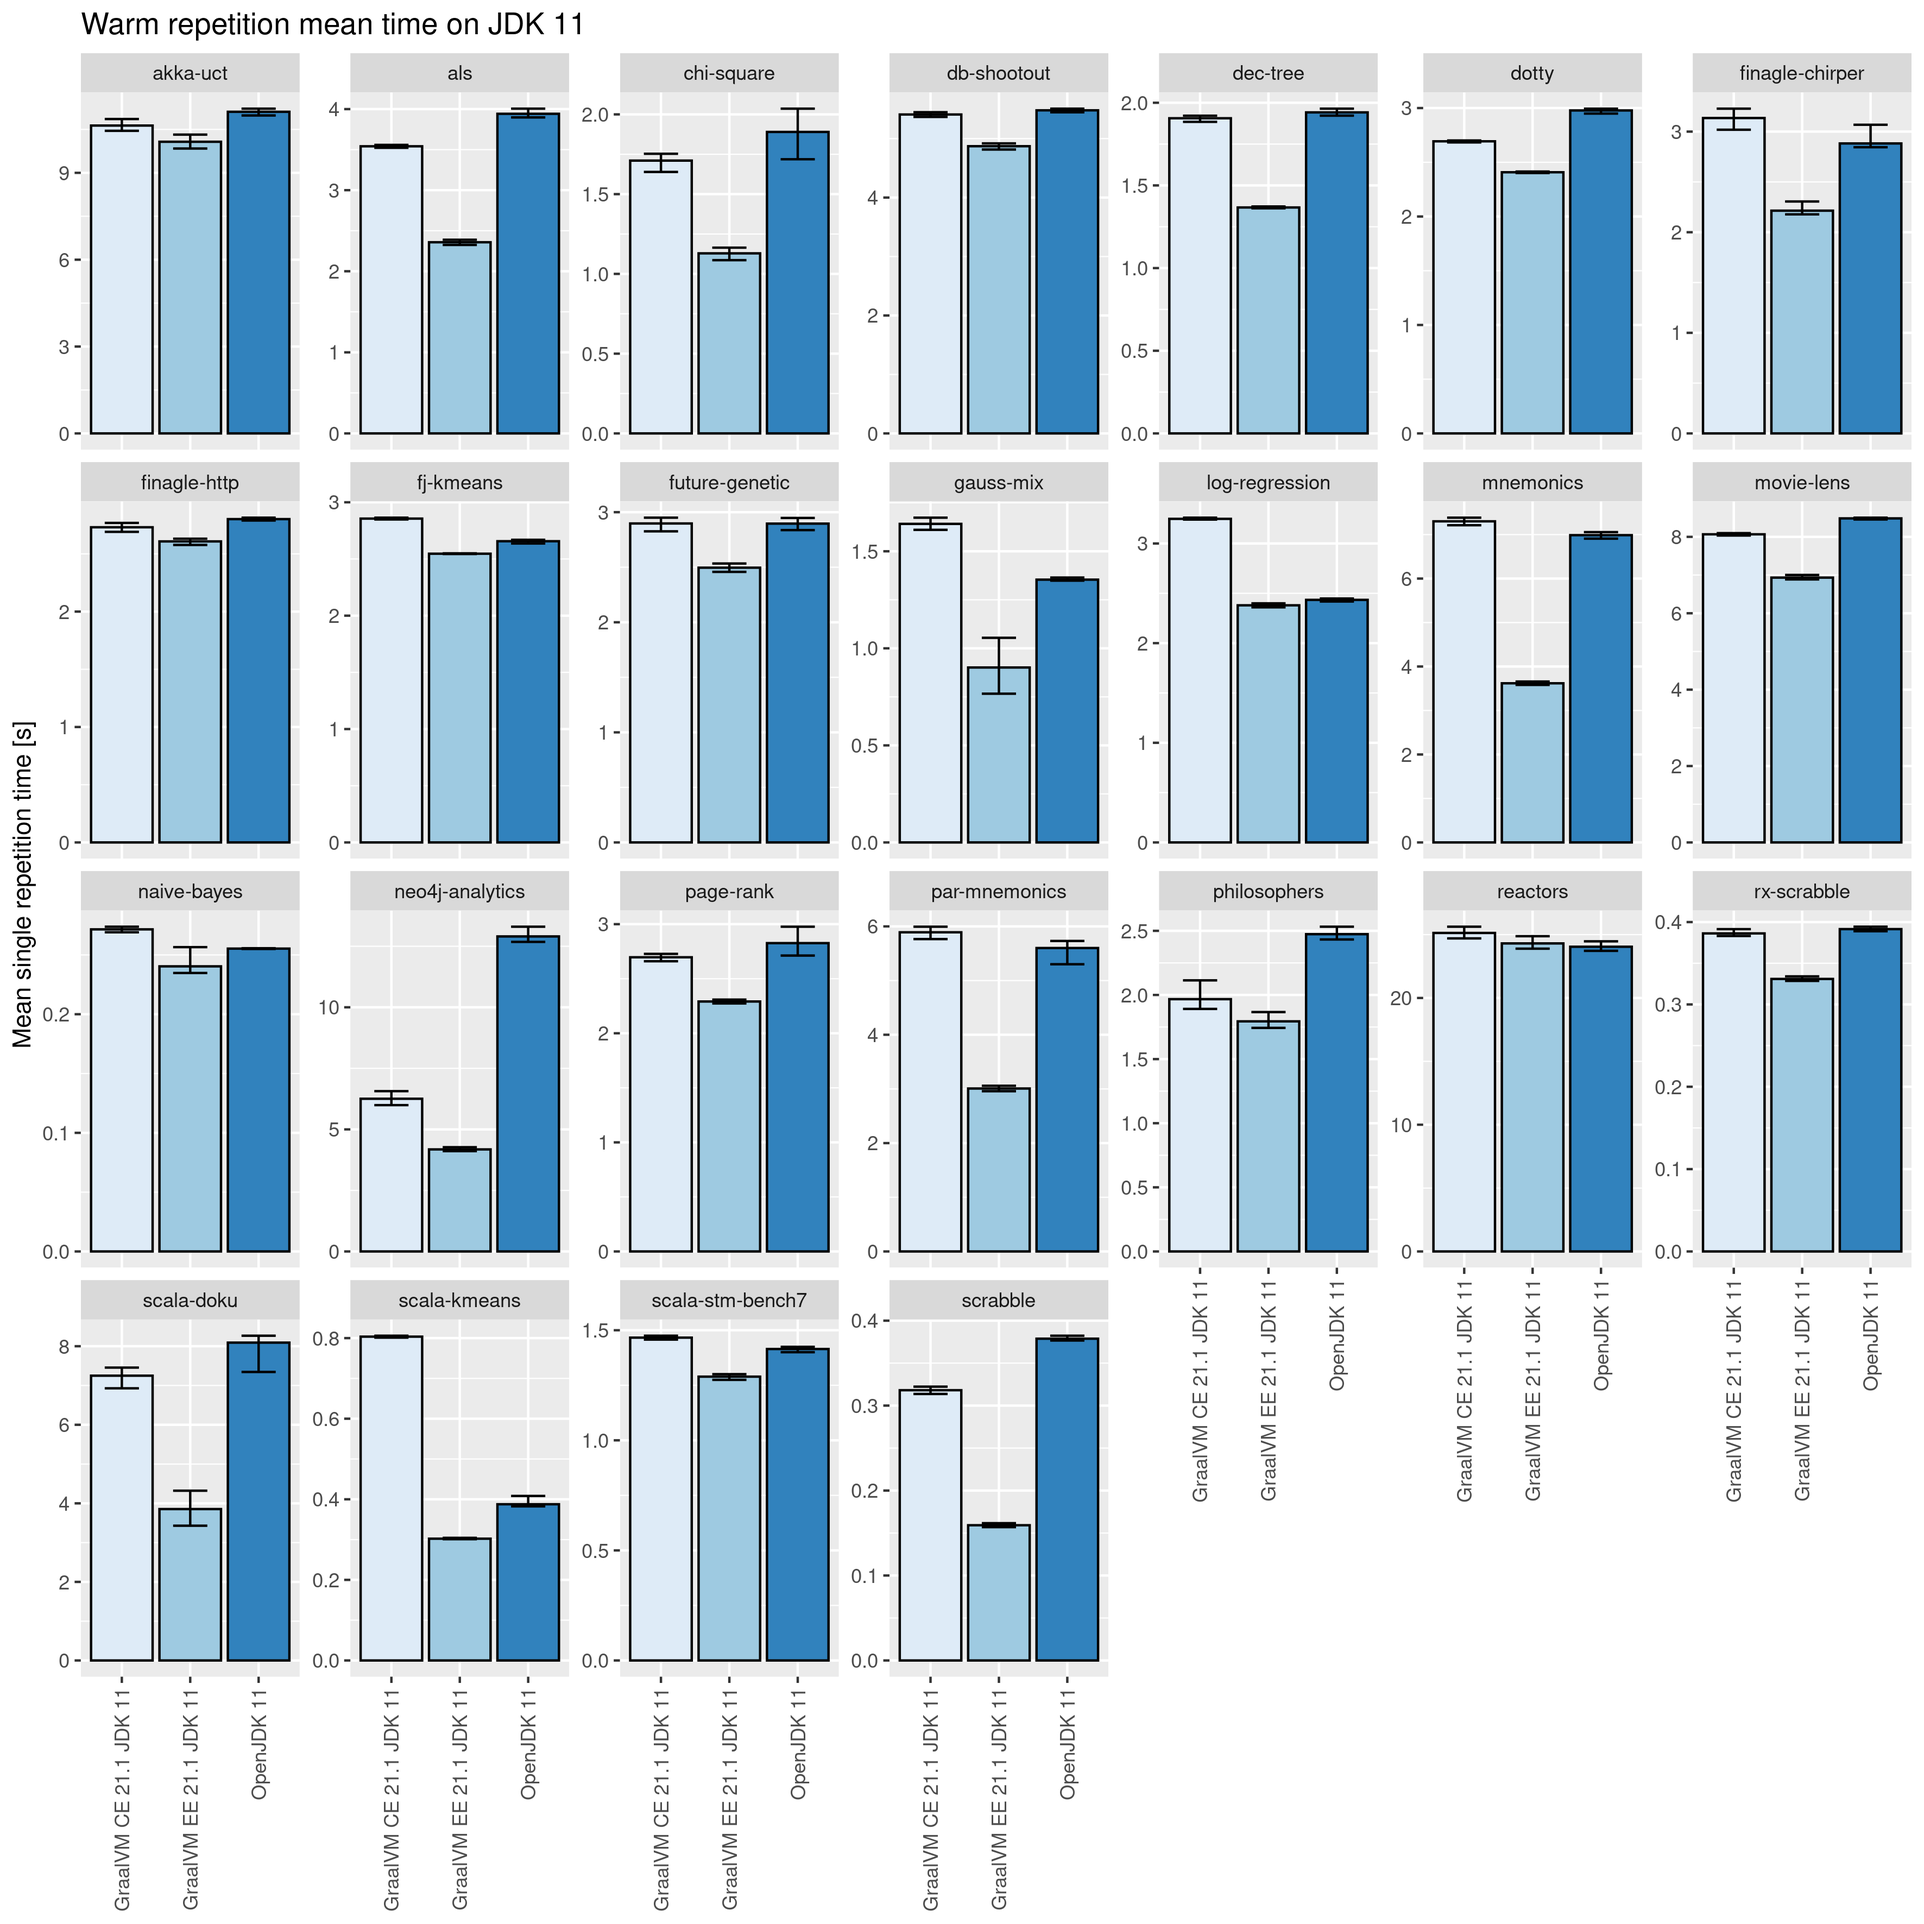
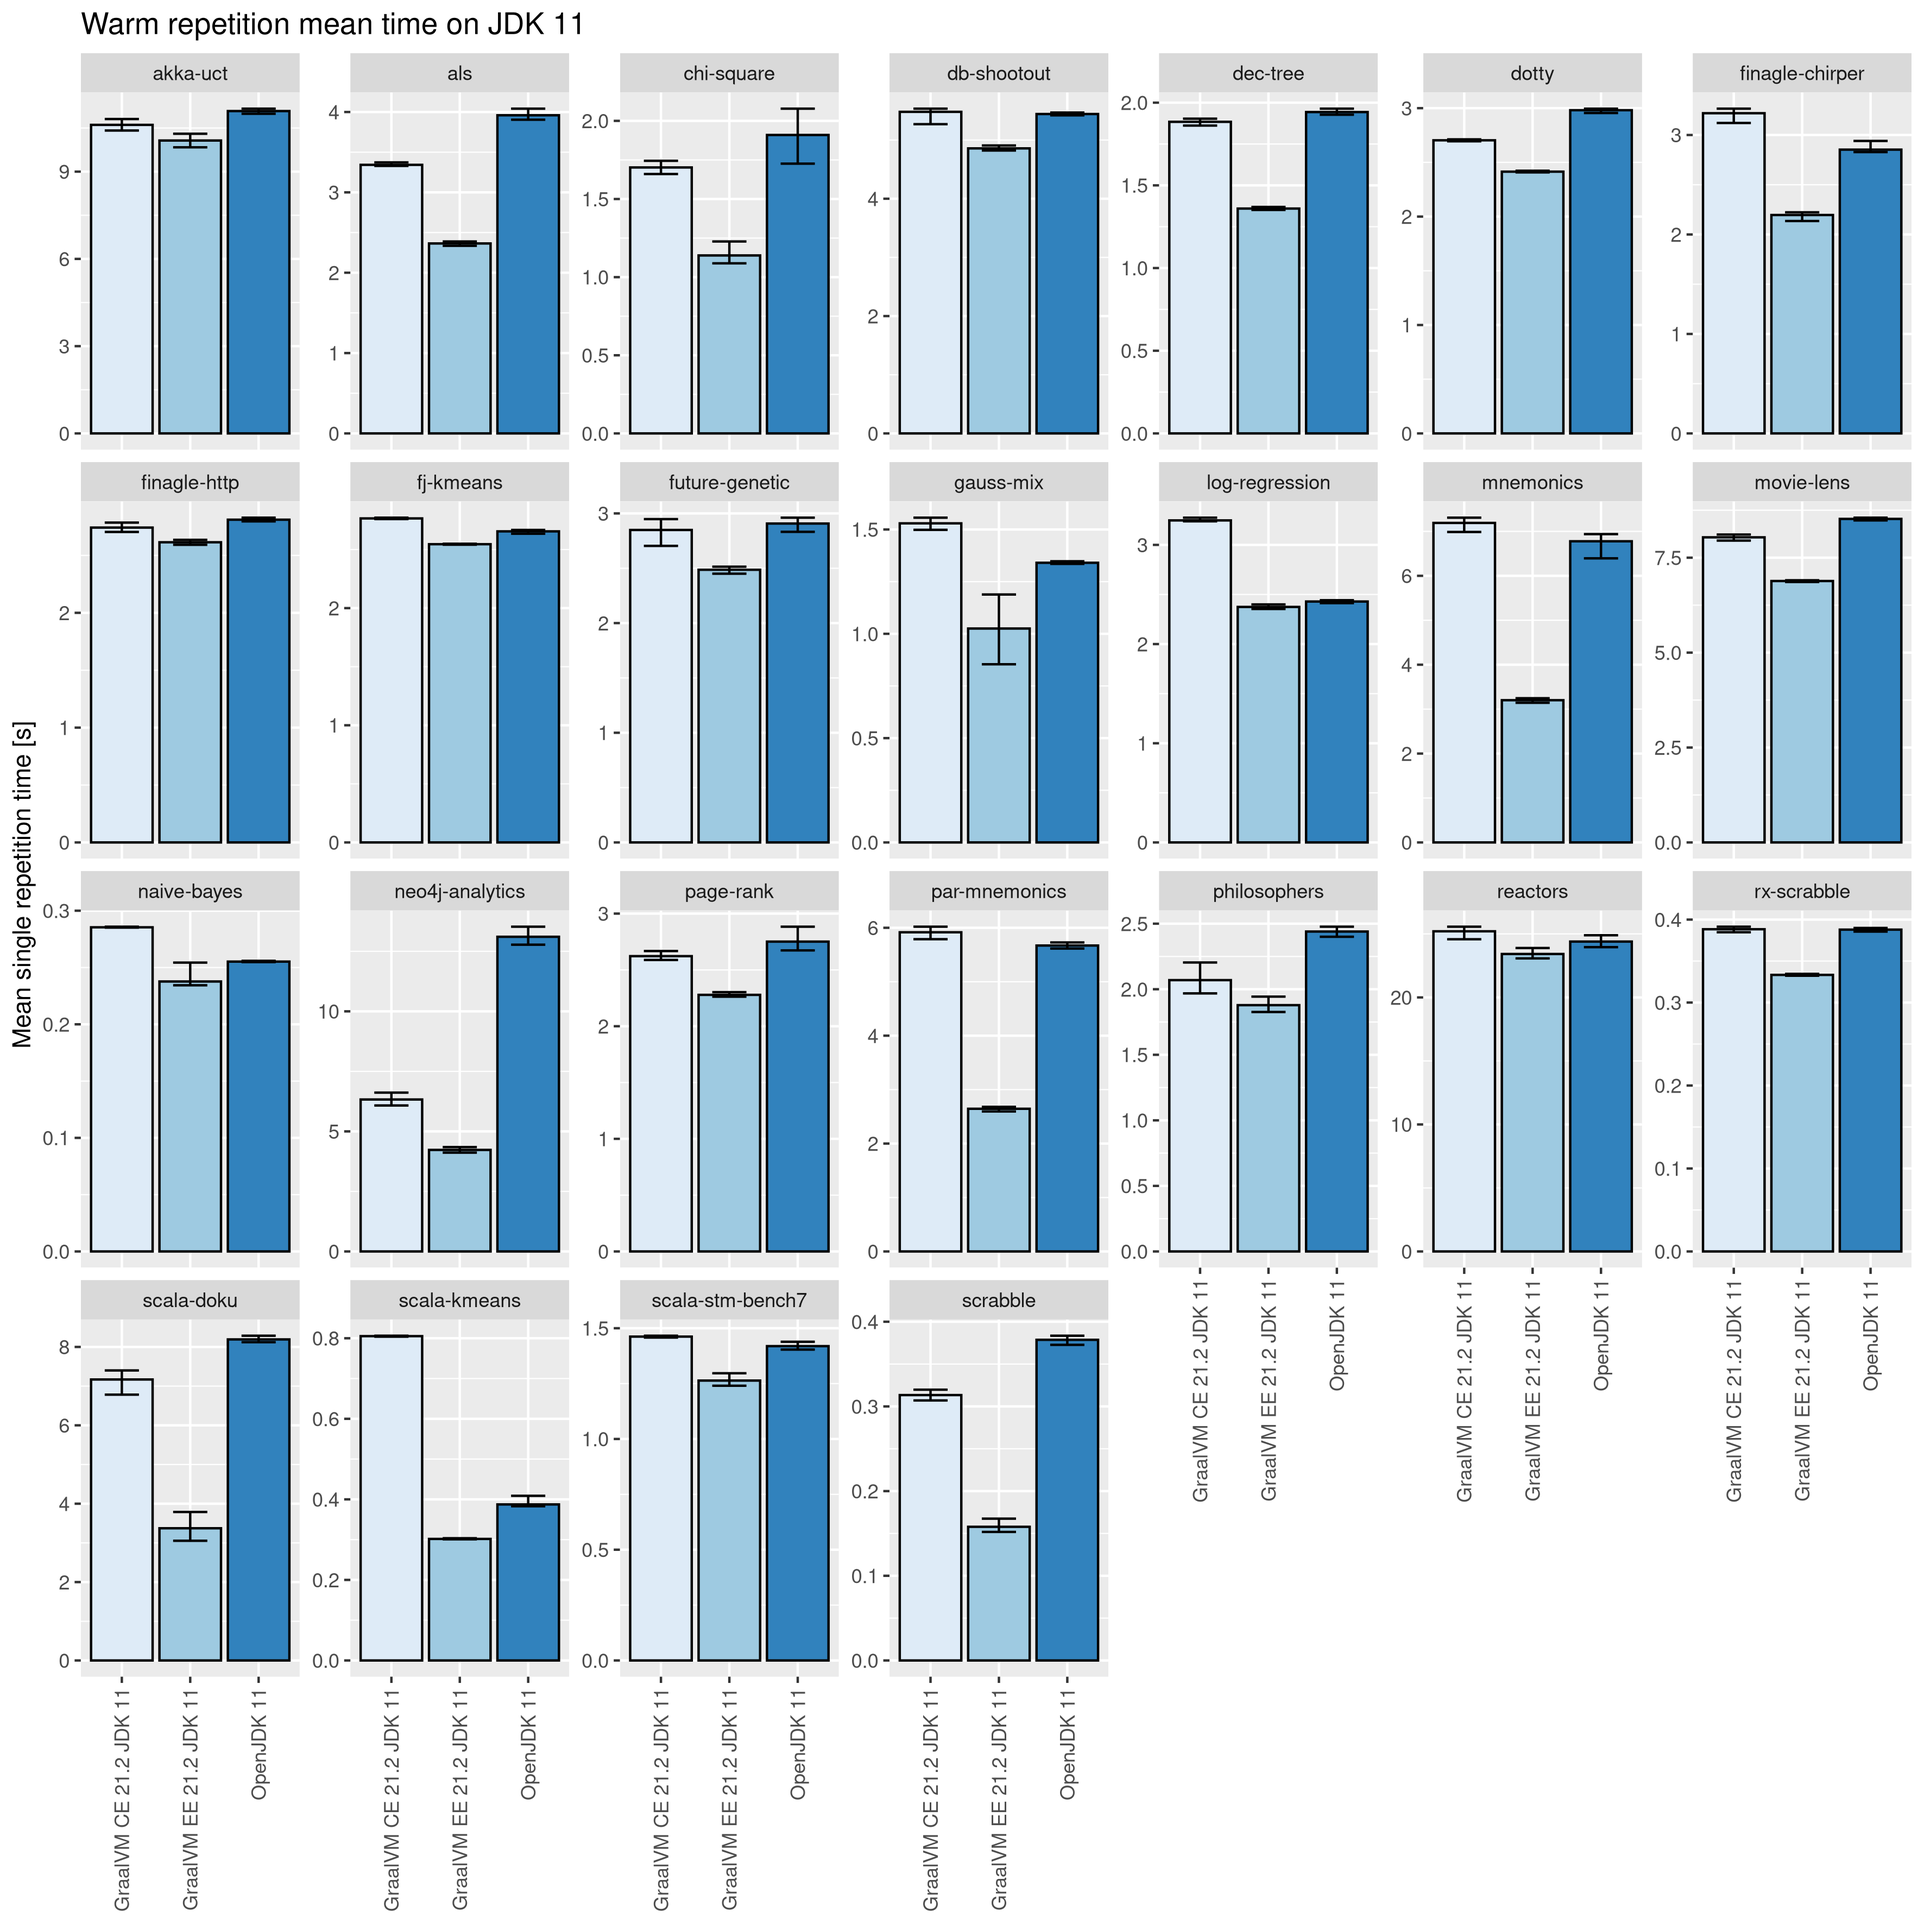
Updated results for GraalVM 21.2.0-dev

diff --git a/README.md b/README.md
@@ -31,32 +31,32 @@ The JVM implementations referenced in the results are:
 
 - **OpenJDK** is the GraalVM Community Edition JVM implementation run with `-XX:-EnableJVMCI -XX:-UseJVMCICompiler` to force the use of the default OpenJDK JIT compiler.
 
-- **GraalVM CE** is GraalVM Community Edition 21.1.0-dev.
+- **GraalVM CE** is GraalVM Community Edition 21.2.0-dev.
 ```
 > java -version
-openjdk version "1.8.0_292"
-OpenJDK Runtime Environment (build 1.8.0_292-b09)
-OpenJDK 64-Bit Server VM GraalVM CE 21.1.0-dev (build 25.292-b09-jvmci-21.1-b05, mixed mode)
+openjdk version "1.8.0_302"
+OpenJDK Runtime Environment (build 1.8.0_302-b07)
+OpenJDK 64-Bit Server VM GraalVM CE 21.2.0-dev (build 25.302-b07-jvmci-21.2-b06, mixed mode)
 ```
 ```
 > java -version
-openjdk version "11.0.11" 2021-04-20
-OpenJDK Runtime Environment GraalVM CE 21.1.0-dev (build 11.0.11+8-jvmci-21.1-b05)
-OpenJDK 64-Bit Server VM GraalVM CE 21.1.0-dev (build 11.0.11+8-jvmci-21.1-b05, mixed mode, sharing)
+openjdk version "11.0.12" 2021-07-20
+OpenJDK Runtime Environment GraalVM CE 21.2.0-dev (build 11.0.12+6-jvmci-21.2-b06)
+OpenJDK 64-Bit Server VM GraalVM CE 21.2.0-dev (build 11.0.12+6-jvmci-21.2-b06, mixed mode, sharing)
 ```
 
-- **GraalVM EE** is GraalVM Enterprise Edition 21.1.0-dev.
+- **GraalVM EE** is GraalVM Enterprise Edition 21.2.0-dev.
 ```
 > java -version
-java version "1.8.0_291"
-Java(TM) SE Runtime Environment (build 1.8.0_291-b10)
-Java HotSpot(TM) 64-Bit Server VM GraalVM EE 21.1.0-dev (build 25.291-b10-jvmci-21.1-b05, mixed mode)
+java version "1.8.0_301"
+Java(TM) SE Runtime Environment (build 1.8.0_301-b09)
+Java HotSpot(TM) 64-Bit Server VM GraalVM EE 21.2.0-dev (build 25.301-b09-jvmci-21.2-b06, mixed mode)
 ```
 ```
 > java -version
-java version "11.0.11" 2021-04-20 LTS
-Java(TM) SE Runtime Environment GraalVM EE 21.1.0-dev (build 11.0.11+9-LTS-jvmci-21.1-b05)
-Java HotSpot(TM) 64-Bit Server VM GraalVM EE 21.1.0-dev (build 11.0.11+9-LTS-jvmci-21.1-b05, mixed mode, sharing)
+java version "11.0.12" 2021-07-20 LTS
+Java(TM) SE Runtime Environment GraalVM EE 21.2.0-dev (build 11.0.12+8-LTS-jvmci-21.2-b06)
+Java HotSpot(TM) 64-Bit Server VM GraalVM EE 21.2.0-dev (build 11.0.12+8-LTS-jvmci-21.2-b06, mixed mode, sharing)
 ```
 
 #### Mean Repetition Times
